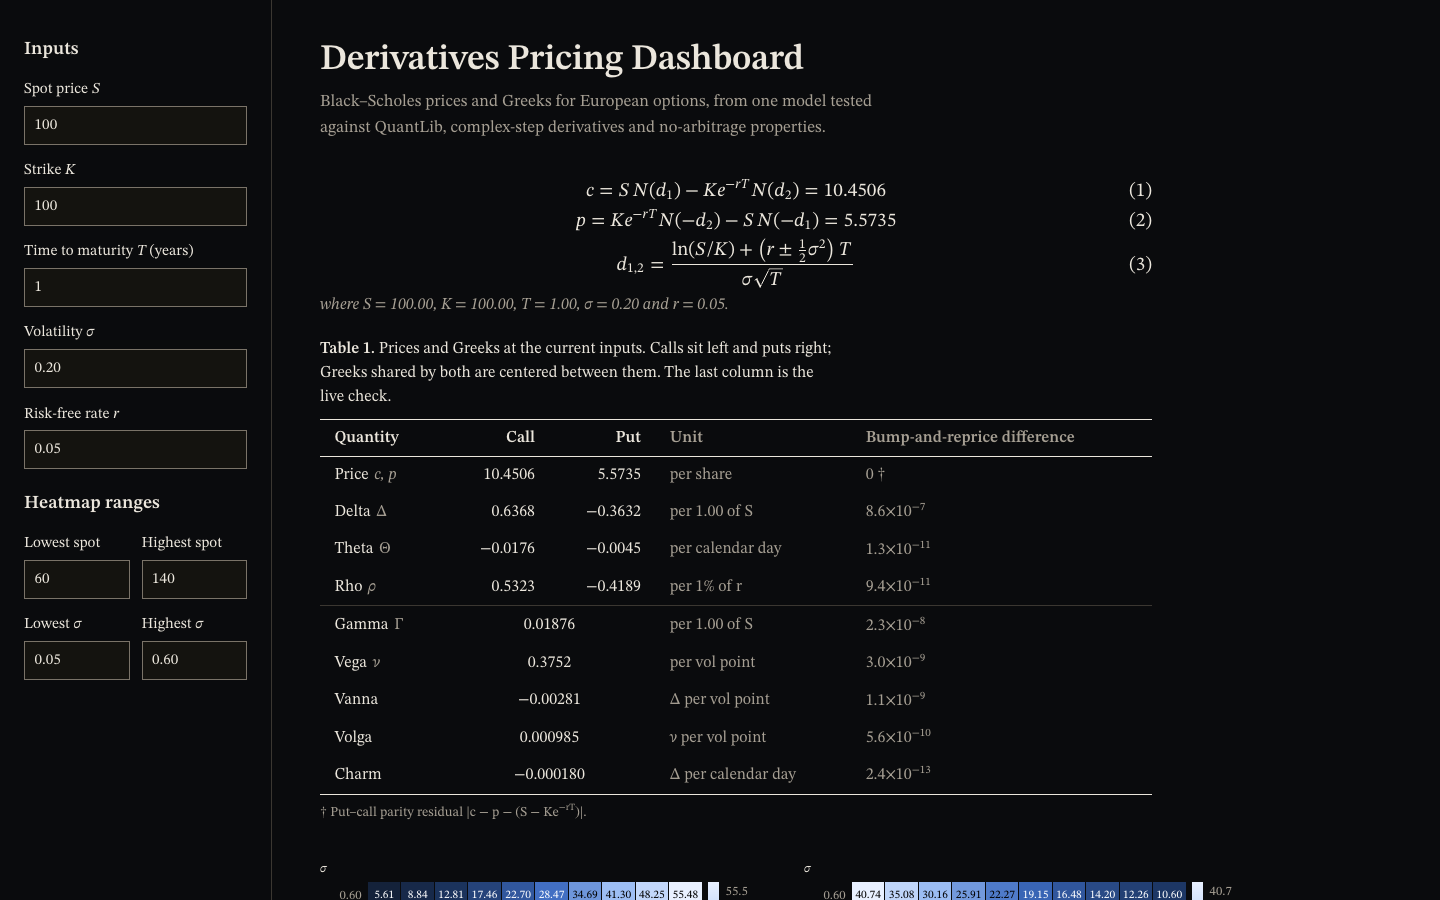
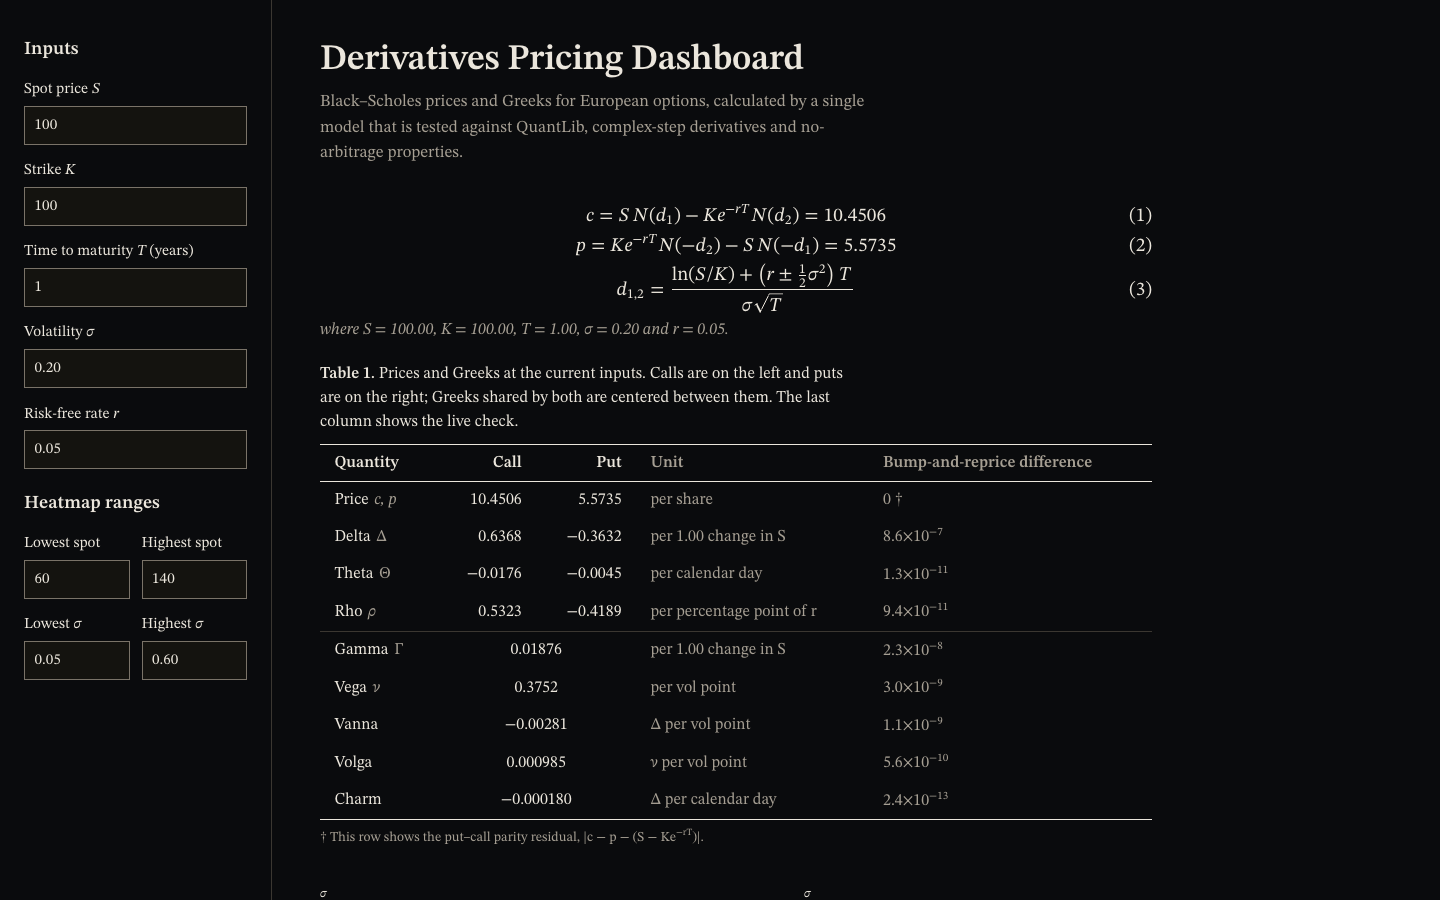
updated features

diff --git a/index.html b/index.html
@@ -4,7 +4,7 @@
     <meta charset="UTF-8" />
     <meta name="viewport" content="width=device-width, initial-scale=1" />
     <title>Derivatives Pricing Dashboard</title>
-    <meta name="description" content="Black-Scholes prices and Greeks for European options, with each Greek checked live by a bump-and-reprice of the same tested model and prices checked by put-call parity." />
+    <meta name="description" content="Black–Scholes prices and Greeks for European options. Each Greek is checked live by a bump-and-reprice of the same tested model, and prices are checked with put–call parity." />
     <meta name="color-scheme" content="dark" />
     <link rel="stylesheet" href="https://cdn.jsdelivr.net/npm/katex@0.18.10/dist/katex.min.css" />
     <link rel="stylesheet" href="styles.css" />
@@ -33,7 +33,7 @@
     <div class="page">
       <header class="head">
         <h1>Derivatives Pricing Dashboard</h1>
-        <p class="lede">Black–Scholes prices and Greeks for European options, from one model tested against QuantLib, complex-step derivatives and no-arbitrage properties.</p>
+        <p class="lede">Black–Scholes prices and Greeks for European options, calculated by a single model that is tested against QuantLib, complex-step derivatives and no-arbitrage properties.</p>
         <p id="status" class="status" role="status" aria-live="polite">Pricing…</p>
       </header>
 
@@ -71,7 +71,7 @@
         </section>
 
         <section class="plate" aria-labelledby="table-caption">
-          <p id="table-caption" class="caption"><b>Table 1.</b> Prices and Greeks at the current inputs. Calls sit left and puts right; Greeks shared by both are centered between them. The last column is the live check.</p>
+          <p id="table-caption" class="caption"><b>Table 1.</b> Prices and Greeks at the current inputs. Calls are on the left and puts are on the right; Greeks shared by both are centered between them. The last column shows the live check.</p>
           <div class="table-scroll">
             <table class="booktabs">
               <thead>
@@ -80,25 +80,25 @@
               <tbody id="greeks"></tbody>
             </table>
           </div>
-          <p class="footnote">† Put–call parity residual |c − p − (S − Ke<sup>−rT</sup>)|.</p>
+          <p class="footnote">† This row shows the put–call parity residual, |c − p − (S − Ke<sup>−rT</sup>)|.</p>
         </section>
 
         <section class="figures">
           <figure>
             <div class="heatmap" id="heat-call" role="img" aria-label="Call value heatmap"></div>
-            <figcaption><b>Figure 1.</b> Call value across spot and volatility at <span class="conditions"></span>. The cross marks the current inputs.</figcaption>
+            <figcaption><b>Figure 1.</b> Call value across spot and volatility at <span class="conditions"></span>. The cross marks the current inputs when they fall inside the grid.</figcaption>
           </figure>
           <figure>
             <div class="heatmap" id="heat-put" role="img" aria-label="Put value heatmap"></div>
-            <figcaption><b>Figure 2.</b> Put value across spot and volatility at <span class="conditions"></span>. The cross marks the current inputs.</figcaption>
+            <figcaption><b>Figure 2.</b> Put value across spot and volatility at <span class="conditions"></span>. The cross marks the current inputs when they fall inside the grid.</figcaption>
           </figure>
         </section>
 
         <section class="notes" aria-label="Notes">
-          <p><b>Model.</b> European options on a non-dividend-paying asset under Black–Scholes assumptions, computed by <code>BlackScholes.py</code> in a Vercel Python function.</p>
-          <p><b>Units.</b> Vega and rho per percentage point, theta and charm per calendar day, vanna per vol point, volga per vol point squared.</p>
-          <p id="limits-note" hidden><b>Limits.</b> When σ√T = 0, every value is its limit as σ or T approaches zero; ∞ marks a Greek that diverges exactly at the strike.</p>
-          <p><b>Checks.</b> The last column of Table 1 reprices the option with small bumps to S, σ, T and r and reports the absolute difference from the closed form; the price row checks put–call parity. The <a href="https://github.com/savsuth/Derivatives-Pricing-Dashboard/tree/main/tests">test suite</a> also compares 2,000 random cases against QuantLib 1.44.</p>
+          <p><b>Model.</b> Prices are for European options on a non-dividend-paying asset under Black–Scholes assumptions. All values are computed by <code>BlackScholes.py</code>, which runs in a Vercel Python function.</p>
+          <p><b>Units.</b> Vega and rho are quoted per percentage point, theta and charm per calendar day, vanna per vol point and volga per vol point squared.</p>
+          <p id="limits-note" hidden><b>Limits.</b> When σ√T = 0, every value is its limit as σ or T approaches zero; ∞ marks a Greek that diverges exactly at the discounted strike.</p>
+          <p><b>Checks.</b> For each Greek, the last column of Table 1 shows the absolute difference between the closed-form value and a value found by repricing the option with small bumps to S, σ, T or r. The price row shows the put–call parity residual instead. The <a href="https://github.com/savsuth/Derivatives-Pricing-Dashboard/tree/main/tests">test suite</a> also compares the model with QuantLib 1.44 on 2,000 random inputs.</p>
         </section>
 
         <footer class="credit">Created by Aasav Suthar • For educational use only</footer>

diff --git a/app.js b/app.js
@@ -10,12 +10,12 @@ const CELL_LIGHT = [255, 255, 255], CELL_DARK = [0, 0, 0];
 
 const PAIRED = [
   ["Price", "c, p", "price", 4, "per share"],
-  ["Delta", "Δ", "delta", 4, "per 1.00 of S"],
+  ["Delta", "Δ", "delta", 4, "per 1.00 change in S"],
   ["Theta", "Θ", "theta", 4, "per calendar day"],
-  ["Rho", "ρ", "rho", 4, "per 1% of r"],
+  ["Rho", "ρ", "rho", 4, "per percentage point of r"],
 ];
 const SHARED = [
-  ["Gamma", "Γ", "gamma", 5, "per 1.00 of S"],
+  ["Gamma", "Γ", "gamma", 5, "per 1.00 change in S"],
   ["Vega", "ν", "vega", 4, "per vol point"],
   ["Vanna", "", "vanna", 5, "Δ per vol point"],
   ["Volga", "", "volga", 6, "ν per vol point"],
@@ -80,7 +80,7 @@ function renderEquations(quote) {
     d.hidden = false;
   }
   const lead = quote.degenerate
-    ? "With σ√T = 0 the payoff is certain, so each option is worth its discounted intrinsic value and Table 1 reports each Greek's limit. Here"
+    ? "With σ√T = 0, the payoff is certain, so each option is worth its discounted intrinsic value and Table 1 reports each Greek's limit. Here,"
     : "where";
   document.getElementById("where").textContent = minus(
     `${lead} S = ${S.toFixed(2)}, K = ${K.toFixed(2)}, T = ${T.toFixed(2)}, σ = ${sigma.toFixed(2)} and r = ${r.toFixed(2)}.`);
@@ -168,7 +168,7 @@ async function update() {
     params.set(input.name, input.value);
   }
   if (missing) {
-    statusLine.textContent = `Enter a number for ${missing}.`;
+    statusLine.textContent = `Enter a number for ${missing[0].toLowerCase()}${missing.slice(1)}.`;
     statusLine.classList.add("error");
     return;
   }

diff --git a/styles.css b/styles.css
@@ -120,6 +120,7 @@ table.booktabs { border-collapse: collapse; width: 100%; }
 .booktabs .shared { text-align: center; }
 .booktabs .unit, .booktabs .check { color: var(--muted); text-align: left; }
 .booktabs sup { font-size: 0.7em; }
+.booktabs .unit, .booktabs .unit-inline { white-space: normal; }
 .booktabs .unit-inline { display: none; }
 .booktabs .short { display: none; }
 /* No STIX Two Text subset has U+221E; KaTeX_Main (already loaded) supplies it. */

diff --git a/BlackScholes.py b/BlackScholes.py
@@ -51,7 +51,7 @@ class BlackScholes:
             raise ValueError("inputs must be finite")
         if np.any(T < 0) or np.any(sigma < 0) or np.any(S <= 0) or np.any(K <= 0):
             raise ValueError(
-                "require time_to_maturity >= 0, volatility >= 0, strike > 0, current_price > 0"
+                "time_to_maturity and volatility must be >= 0, and strike and current_price must be > 0"
             )
 
         discounted_strike = K * exp(-r * T)

diff --git a/README.md b/README.md
@@ -34,10 +34,10 @@ For S = 100, K = 100, T = 1, σ = 0.2 and r = 0.05, the page shows:
 | Quantity | Call | Put | Unit | Difference |
 | --- | ---: | ---: | --- | --- |
 | Price | 10.4506 | 5.5735 | per share | 0 (put–call parity) |
-| Delta | 0.6368 | −0.3632 | per 1.00 of spot | 8.6×10⁻⁷ |
+| Delta | 0.6368 | −0.3632 | per 1.00 change in spot | 8.6×10⁻⁷ |
 | Theta | −0.0176 | −0.0045 | per calendar day | 1.3×10⁻¹¹ |
-| Rho | 0.5323 | −0.4189 | per 1% of rate | 9.4×10⁻¹¹ |
-| Gamma | 0.01876 | same | per 1.00 of spot | 2.3×10⁻⁸ |
+| Rho | 0.5323 | −0.4189 | per percentage point of rate | 9.4×10⁻¹¹ |
+| Gamma | 0.01876 | same | per 1.00 change in spot | 2.3×10⁻⁸ |
 | Vega | 0.3752 | same | per volatility point | 3.0×10⁻⁹ |
 | Vanna | −0.00281 | same | delta per volatility point | 1.1×10⁻⁹ |
 | Volga | 0.000985 | same | vega per volatility point | 5.6×10⁻¹⁰ |
